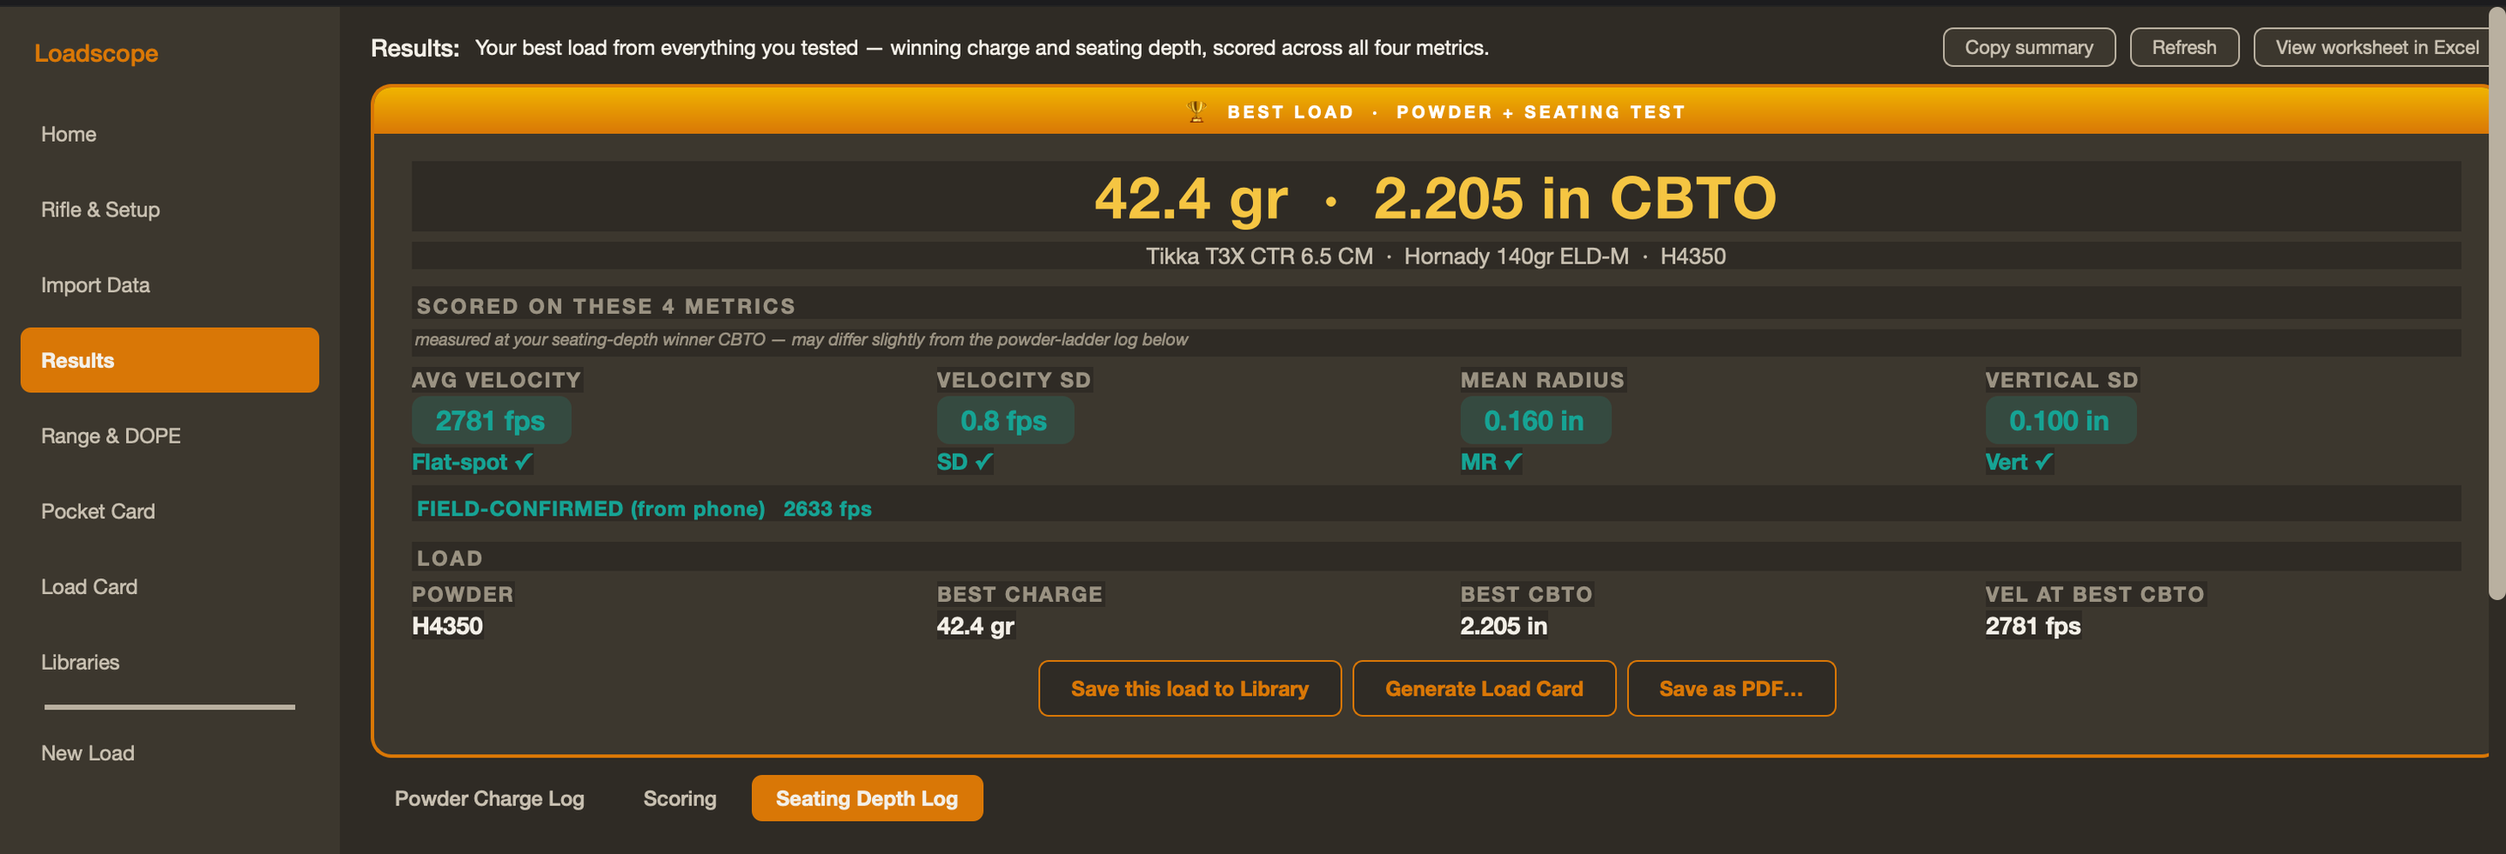
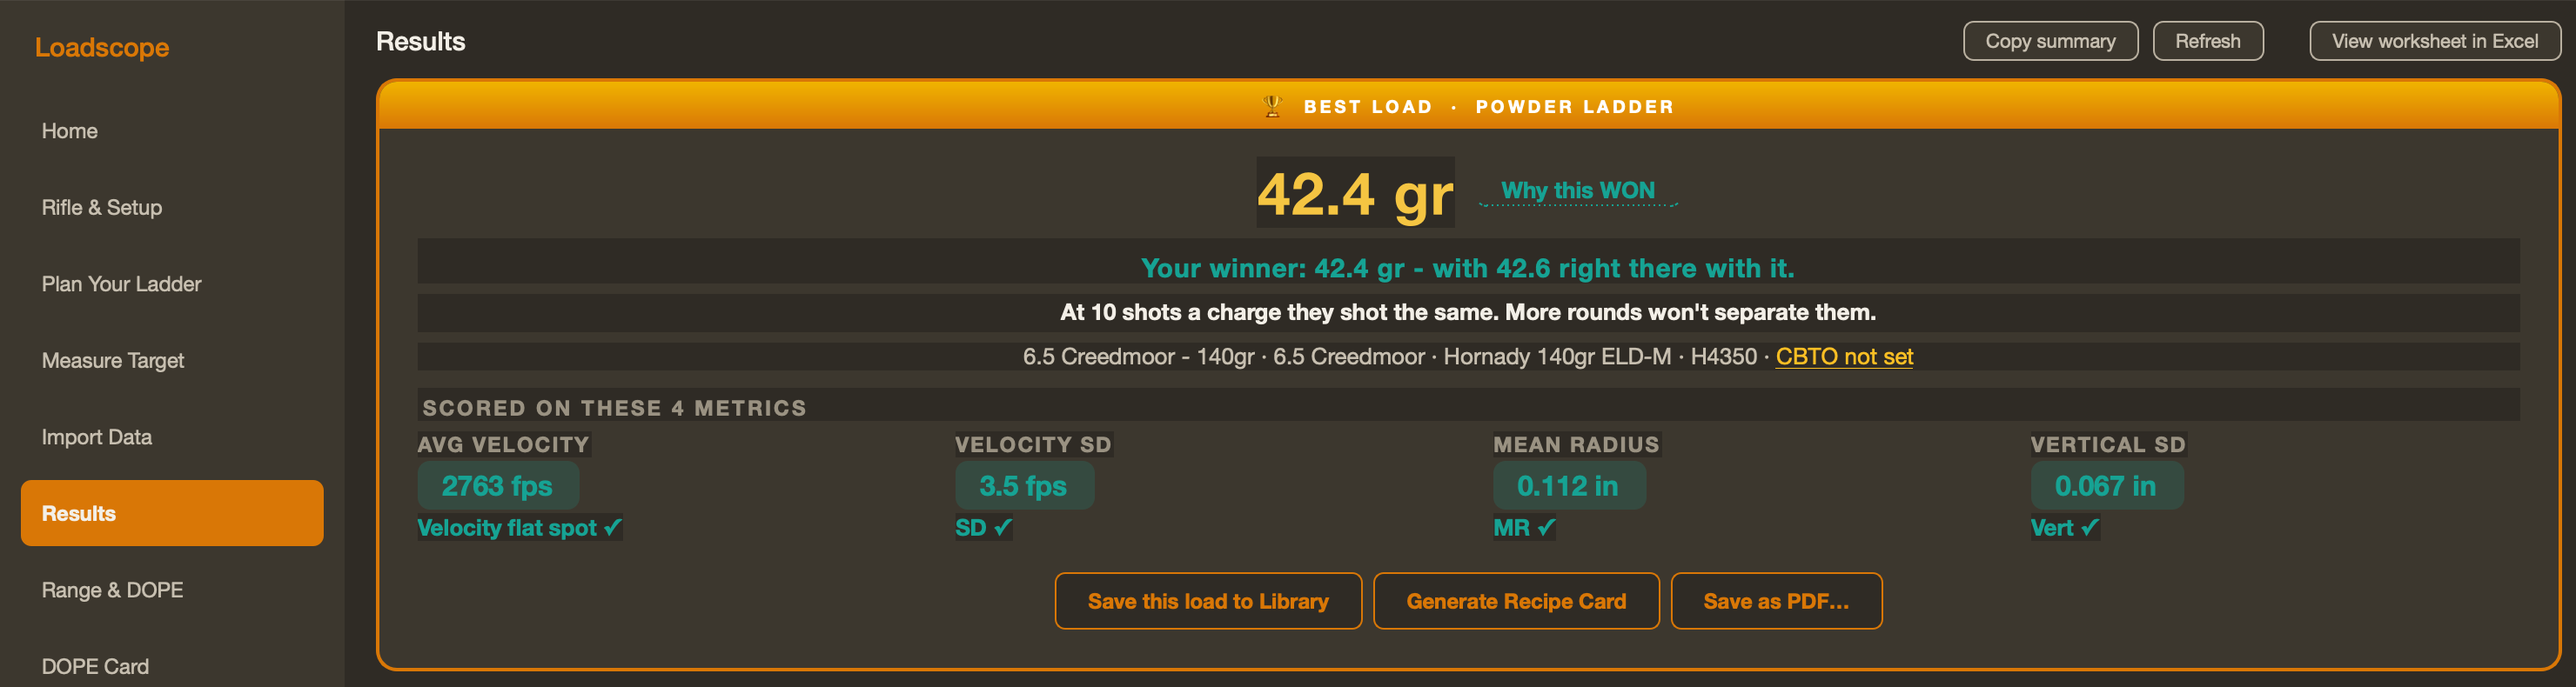
Publish site + manifest from private repo (2026-10-15)

diff --git a/docs/index.html b/docs/index.html
@@ -1090,7 +1090,7 @@ header.hero .line2 {
     <h2>Scored <span class="accent">and</span> graphed.</h2>
     <p class="section-sub">Every load scored into one winner — and charted so the flat-spot pops. Tune the weights and Loadscope re-scores from your existing data, no re-import.</p>
     <div class="screenshot-wrap">
-      <img src="assets/demo/app-results-trim.webp" width="2880" height="982" loading="lazy" decoding="async" alt="Loadscope Results screen: the BEST LOAD - 42.4 gr at 2.205 CBTO for a 6.5 Creedmoor - scored across all four metrics (avg velocity, velocity SD, mean radius, vertical SD), with the best charge and best seating depth called out">
+      <img src="assets/demo/app-results-trim.webp" width="2960" height="790" loading="lazy" decoding="async" alt="Loadscope Results screen: the BEST LOAD - 42.4 gr of H4350 for a 6.5 Creedmoor with a 140gr ELD-M - scored across all four metrics (avg velocity 2763 fps, velocity SD 3.5 fps, mean radius, vertical SD)">
     </div>
     <div class="screenshot-wrap" style="margin-top:14px;max-width:720px;">
       <img src="assets/demo/gd-whiskers.webp" width="1200" height="340" loading="lazy" decoding="async" alt="Loadscope velocity flat-spot chart: ten powder charges plotted with plus-or-minus 1 SD whiskers, a clear flat-spot plateau where the line levels off, and the winning charge highlighted">
